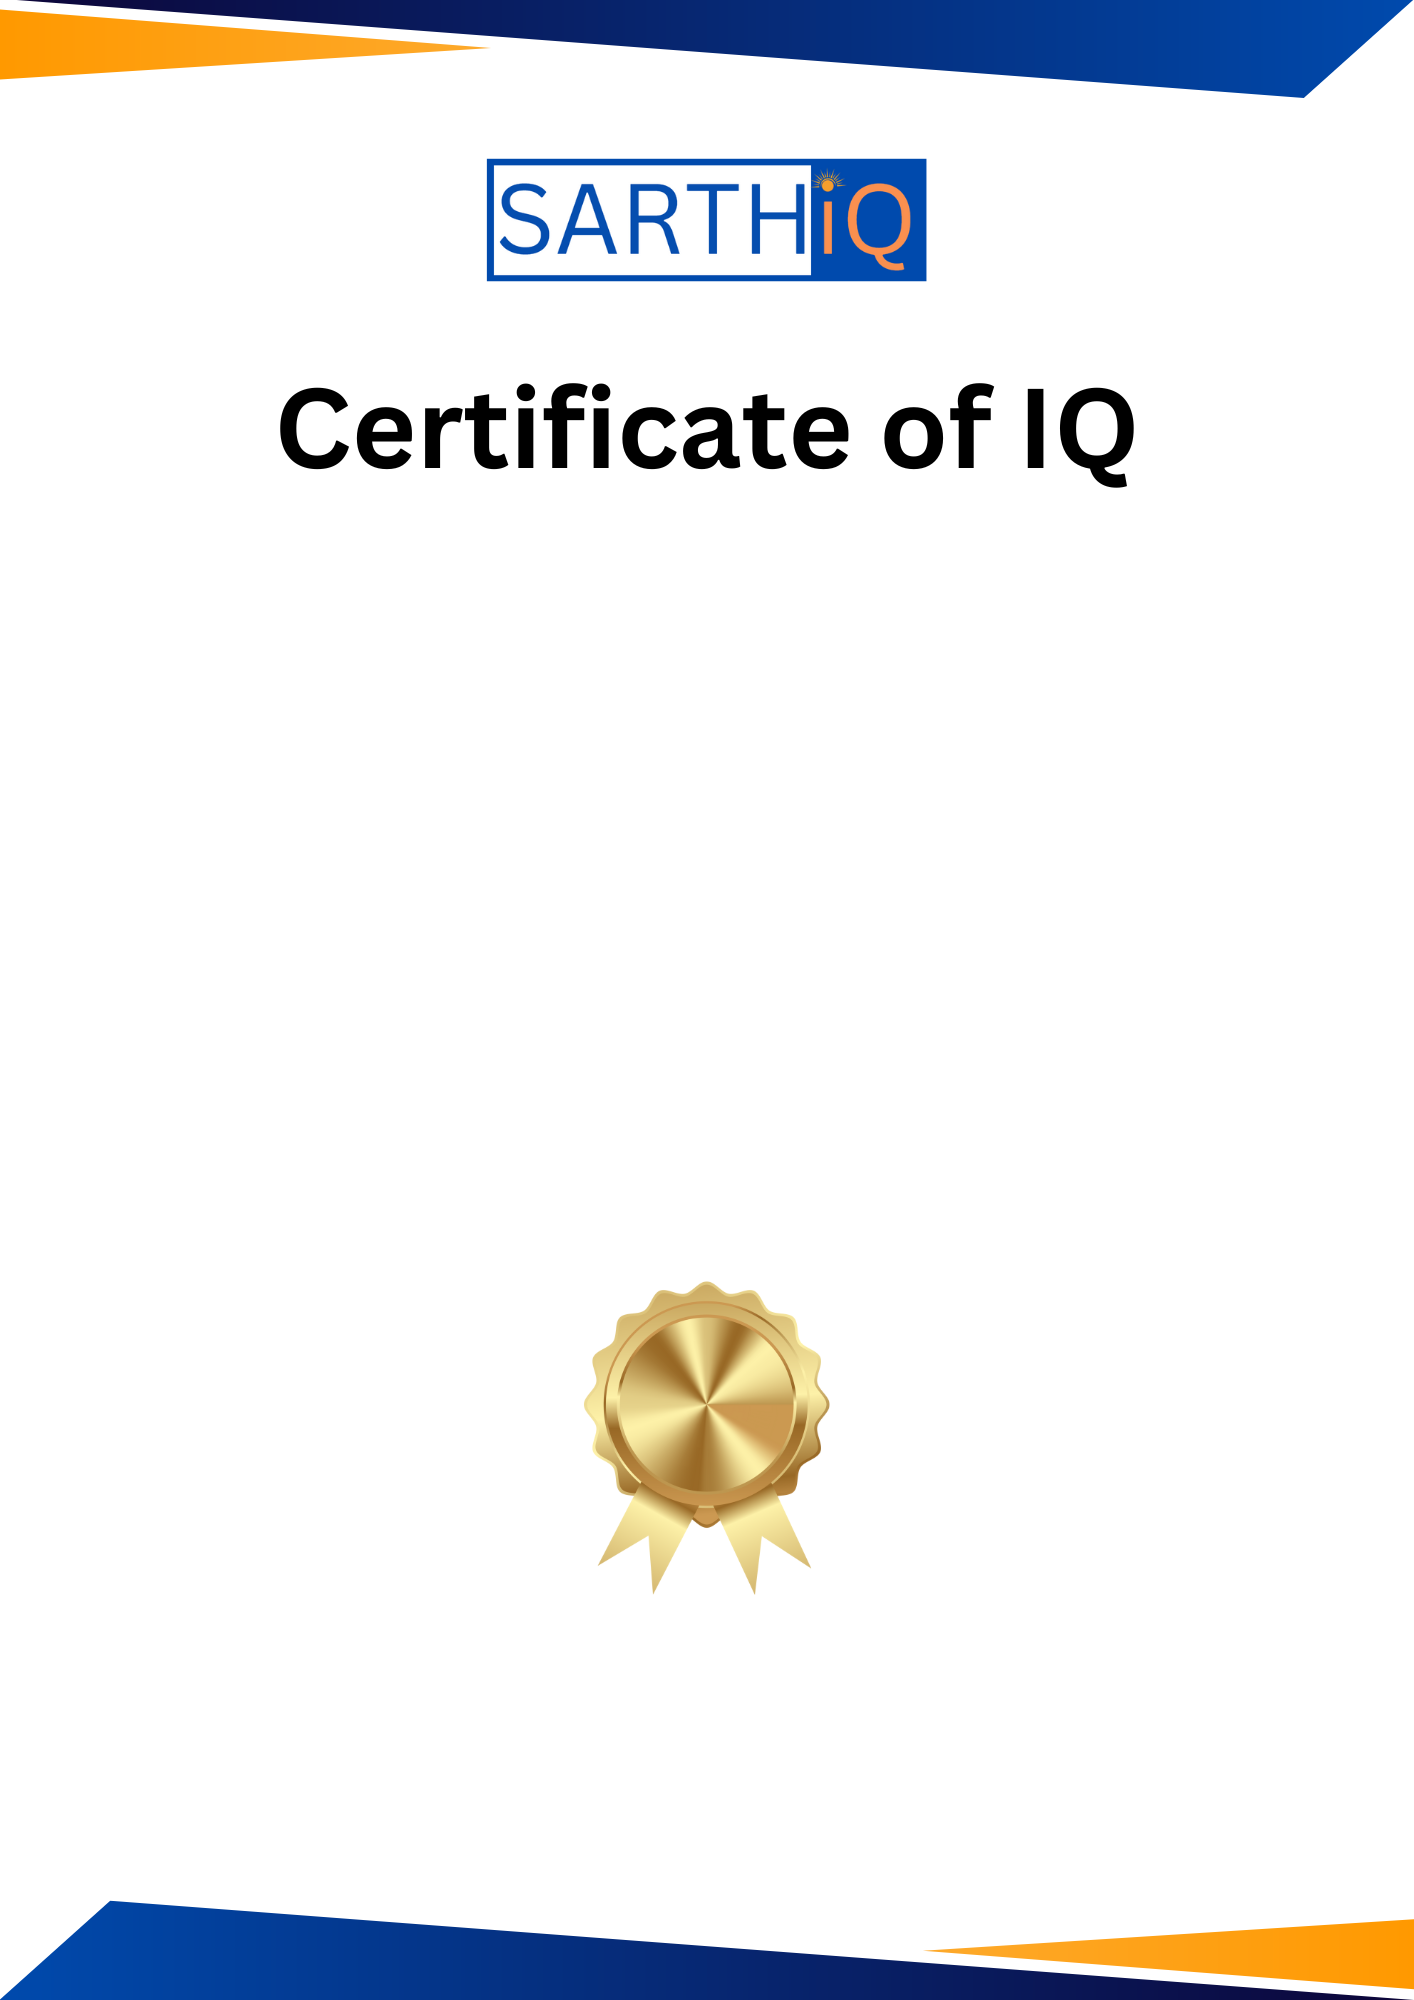
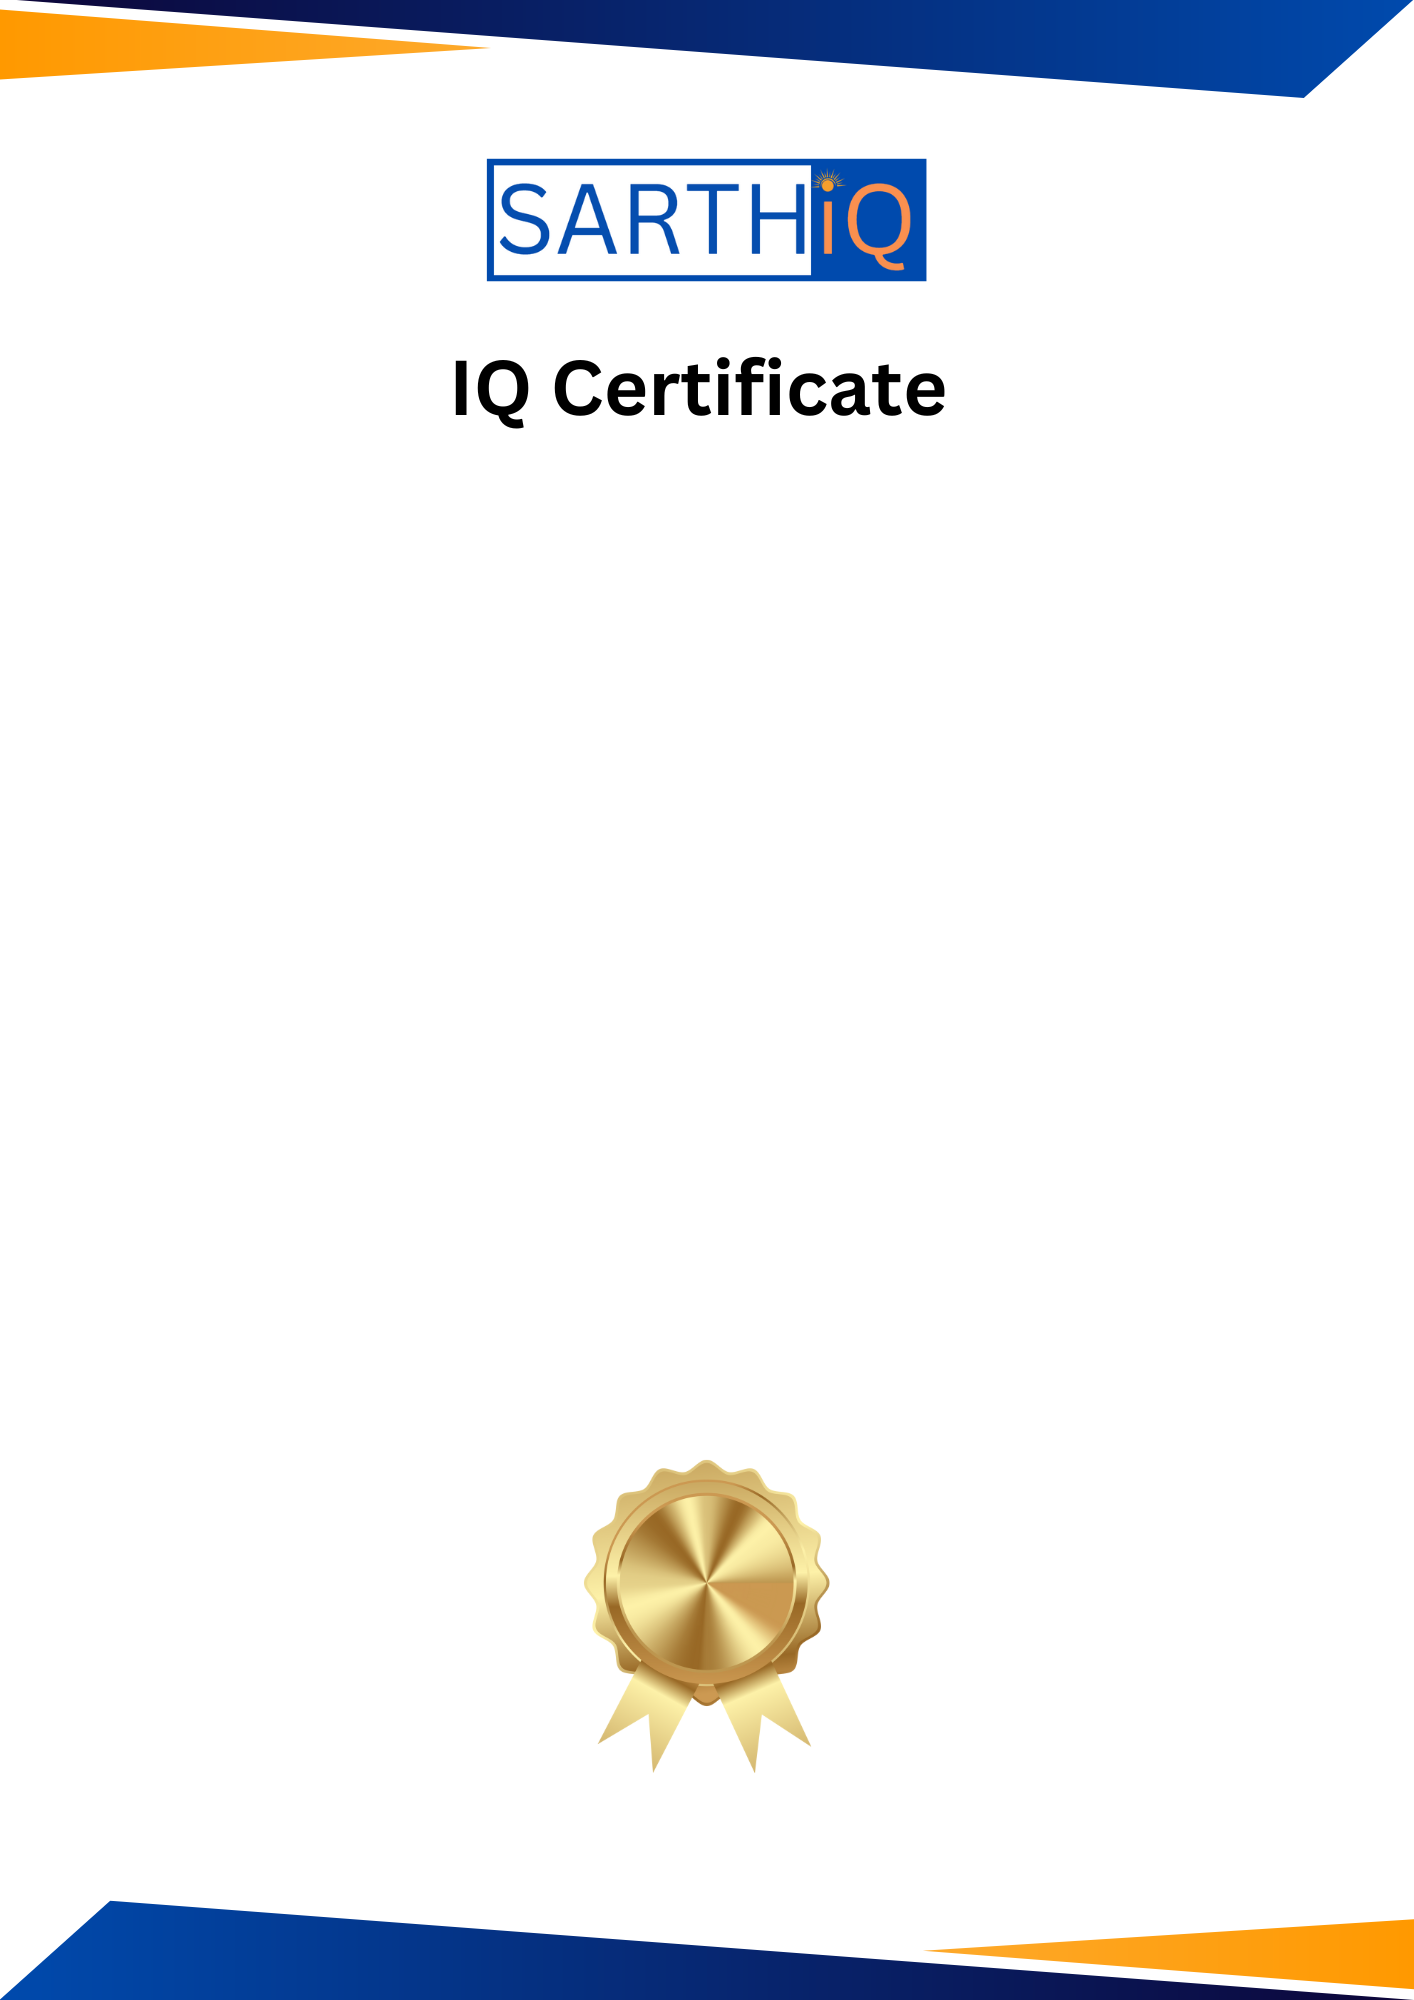
certificate updated

Changed region(s): [[0.4045, 0.62, 0.5912, 0.899], [0.1867, 0.155, 0.8091, 0.248]]

diff --git a/frontend/src/Components/Body/Home/HomeScreen/Quiz/Certificate/Certificate.js b/frontend/src/Components/Body/Home/HomeScreen/Quiz/Certificate/Certificate.js
@@ -1,49 +1,136 @@
-import React, { useRef, useEffect, useState } from "react";
+import React, { useRef } from "react";
 import { useReactToPrint } from "react-to-print";
+import { useLocation } from "react-router-dom";
+import { Container, Button } from "react-bootstrap";
+import "./Certificate.css";
 
 const Certificate = () => {
   const certificateRef = useRef();
-  const [userData, setUserData] = useState({ name: "", testType: "", score: "" });
-
-  useEffect(() => {
-    // Fetching data from backend (replace with actual API URL)
-    fetch("https://api.example.com/user/certificate")
-      .then((response) => response.json())
-      .then((data) => setUserData(data))
-      .catch((error) => console.error("Error fetching data:", error));
-  }, []);
+  const location = useLocation();
+  const result = location.state?.result || {};
+  const quizType = location.state?.quizType || "";
 
   const handlePrint = useReactToPrint({
     content: () => certificateRef.current,
   });
 
-  return (
-    <div className="flex flex-col items-center p-6 bg-gray-100 min-h-screen">
-      <button
-        onClick={handlePrint}
-        className="mb-4 px-6 py-2 bg-blue-600 text-white rounded shadow"
-      >
-        Download as PDF
-      </button>
+  const getCertificateBackground = () => {
+    switch(quizType) {
+      case "IQ":
+        return "/CertificateIQ.png";
+      case "personality":
+        return "/CertificatePersonality.png";
+      case "creativity":
+        return "/CertificateCreativity.png";
+      default:
+        return "";
+    }
+  };
 
-      <div
-        ref={certificateRef}
-        className="bg-white p-10 border shadow-lg text-center w-[700px] relative"
+  const getCertificateContent = () => {
+    switch(quizType) {
+      case "IQ":
+        return (
+          <div className="certificate-content">
+            <h2>IQ Certificate</h2>
+            <p className="mt-4">
+              This is to certify that <strong>{result.name || "User"}</strong> has completed 
+              the IQ Assessment with a score of <strong>{result.iqLevel || "Average"}</strong>
+            </p>
+          </div>
+        );
+
+      case "personality":
+        return (
+          <div className="certificate-content">
+            <h2>Personality Certificate</h2>
+            <p className="mt-4">
+              This is to certify that <strong>{result.name || "User"}</strong> has completed 
+              the Big Five Personality Assessment with the following scores:
+            </p>
+            <div className="scores-section">
+              <p>Extraversion: {result.extraversion}%</p>
+              <p>Agreeableness: {result.agreeableness}%</p>
+              <p>Conscientiousness: {result.conscientiousness}%</p>
+              <p>Neuroticism: {result.neuroticism}%</p>
+              <p>Openness: {result.openness}%</p>
+            </div>
+          </div>
+        );
+
+      case "creativity":
+        return (
+          <div className="certificate-content">
+            <h2>Creativity Certificate</h2>
+            <p className="mt-4">
+              This is to certify that <strong>{result.name || "User"}</strong> has completed 
+              the Creativity Assessment with the following scores:
+            </p>
+            <div className="scores-section">
+              <p>Overall Level: {result.label}</p>
+              <p>Fluency: {result.categoryScores?.fluency}</p>
+              <p>Flexibility: {result.categoryScores?.flexibility}</p>
+              <p>Originality: {result.categoryScores?.originality}</p>
+              <p>Elaboration: {result.categoryScores?.elaboration}</p>
+            </div>
+          </div>
+        );
+
+      default:
+        return null;
+    }
+  };
+
+  if (!quizType) {
+    return (
+      <Container className="certificate-container">
+        <div>No certificate type specified</div>
+      </Container>
+    );
+  }
+
+  return (
+    <Container className="certificate-container">
+      <Button 
+        variant="primary" 
+        onClick={handlePrint}
+        className="download-button"
+      >
+        Download Certificate
+      </Button>
+
+      <div 
+        ref={certificateRef} 
+        className="certificate"
         style={{
-          backgroundImage: "url('/CertificateIQ.png')",
-          backgroundSize: "cover",
-          backgroundPosition: "center",
+          backgroundImage: `url(${getCertificateBackground()})`,
+          backgroundSize: 'cover',
+          backgroundPosition: 'center',
+          width: '800px',
+          height: '600px',
+          position: 'relative',
+          padding: '40px'
         }}
       >
-        <div className="mt-24 text-lg font-semibold">
-          This is Certified, <span className="font-bold">{userData.name}</span> has an intelligence quotient of <span className="font-bold">{userData.score}</span>.
-          The average IQ in India is 97.
+        <div className="certificate-inner">
+          <img 
+            src="/images/logo.png" 
+            alt="SarthiQ Logo" 
+            className="certificate-logo" 
+          />
+          {getCertificateContent()}
+          <div className="certificate-footer">
+            <div className="signature-line"></div>
+            <p>Issued by SarthiQ</p>
+          </div>
+          <img 
+            src="/images/medal.png" 
+            alt="Medal" 
+            className="certificate-medal" 
+          />
         </div>
-
-        <div className="mt-16 border-b border-black w-1/2 mx-auto" />
-        <div className="mt-10 text-lg font-semibold">This is based on the {userData.testType} test on SarthiQ</div>
       </div>
-    </div>
+    </Container>
   );
 };
 

diff --git a/frontend/src/Components/Body/Home/HomeScreen/Quiz/Certificate/Certificate.css b/frontend/src/Components/Body/Home/HomeScreen/Quiz/Certificate/Certificate.css
@@ -1,0 +1,129 @@
+.certificate-container {
+  padding: 20px;
+  display: flex;
+  flex-direction: column;
+  align-items: center;
+}
+
+.download-button {
+  margin-bottom: 20px;
+  padding: 8px 20px;
+  font-size: 16px;
+}
+
+.certificate {
+  position: relative;
+  margin: 20px 0;
+}
+
+/* IQ Certificate Content Styling */
+.certificate[style*="CertificateIQ.png"] .certificate-content {
+  position: absolute;
+  top: 45%;
+  left: 50%;
+  transform: translate(-50%, -50%);
+  text-align: center;
+  width: 80%;
+  font-size: 24px;
+  color: #333;
+}
+
+/* Personality Certificate Content Styling */
+.certificate[style*="CertificatePersonality.png"] .certificate-content {
+  position: absolute;
+  top: 50%;
+  left: 50%;
+  transform: translate(-50%, -50%);
+  width: 70%;
+}
+
+.certificate[style*="CertificatePersonality.png"] .result-scores {
+  text-align: left;
+  margin: 0 auto;
+}
+
+.certificate[style*="CertificatePersonality.png"] .result-scores p {
+  margin: 10px 0;
+  font-size: 20px;
+  color: #333;
+}
+
+/* Creativity Certificate Content Styling */
+.certificate[style*="CertificateCreativity.png"] .certificate-content {
+  position: absolute;
+  top: 50%;
+  left: 50%;
+  transform: translate(-50%, -50%);
+  width: 70%;
+}
+
+.certificate[style*="CertificateCreativity.png"] .result-scores {
+  text-align: left;
+  margin: 0 auto;
+}
+
+.certificate[style*="CertificateCreativity.png"] .result-scores p {
+  margin: 10px 0;
+  font-size: 20px;
+  color: #333;
+}
+
+.certificate-logo {
+  width: 150px;
+  margin-bottom: 20px;
+}
+
+.certificate-content {
+  margin: 30px 0;
+  color: #2c3e50;
+}
+
+.certificate-content h2 {
+  font-size: 32px;
+  margin-bottom: 20px;
+}
+
+.scores-section {
+  margin: 20px 0;
+  text-align: left;
+  display: inline-block;
+}
+
+.scores-section p {
+  margin: 10px 0;
+  font-size: 18px;
+}
+
+.certificate-footer {
+  position: absolute;
+  bottom: 40px;
+  left: 0;
+  right: 0;
+  text-align: center;
+}
+
+.signature-line {
+  width: 200px;
+  height: 1px;
+  background-color: #000;
+  margin: 10px auto;
+}
+
+.certificate-medal {
+  position: absolute;
+  bottom: 20px;
+  right: 20px;
+  width: 80px;
+  height: 80px;
+}
+
+/* Print Styling */
+@media print {
+  .download-button {
+    display: none;
+  }
+  
+  .certificate {
+    margin: 0;
+  }
+}
